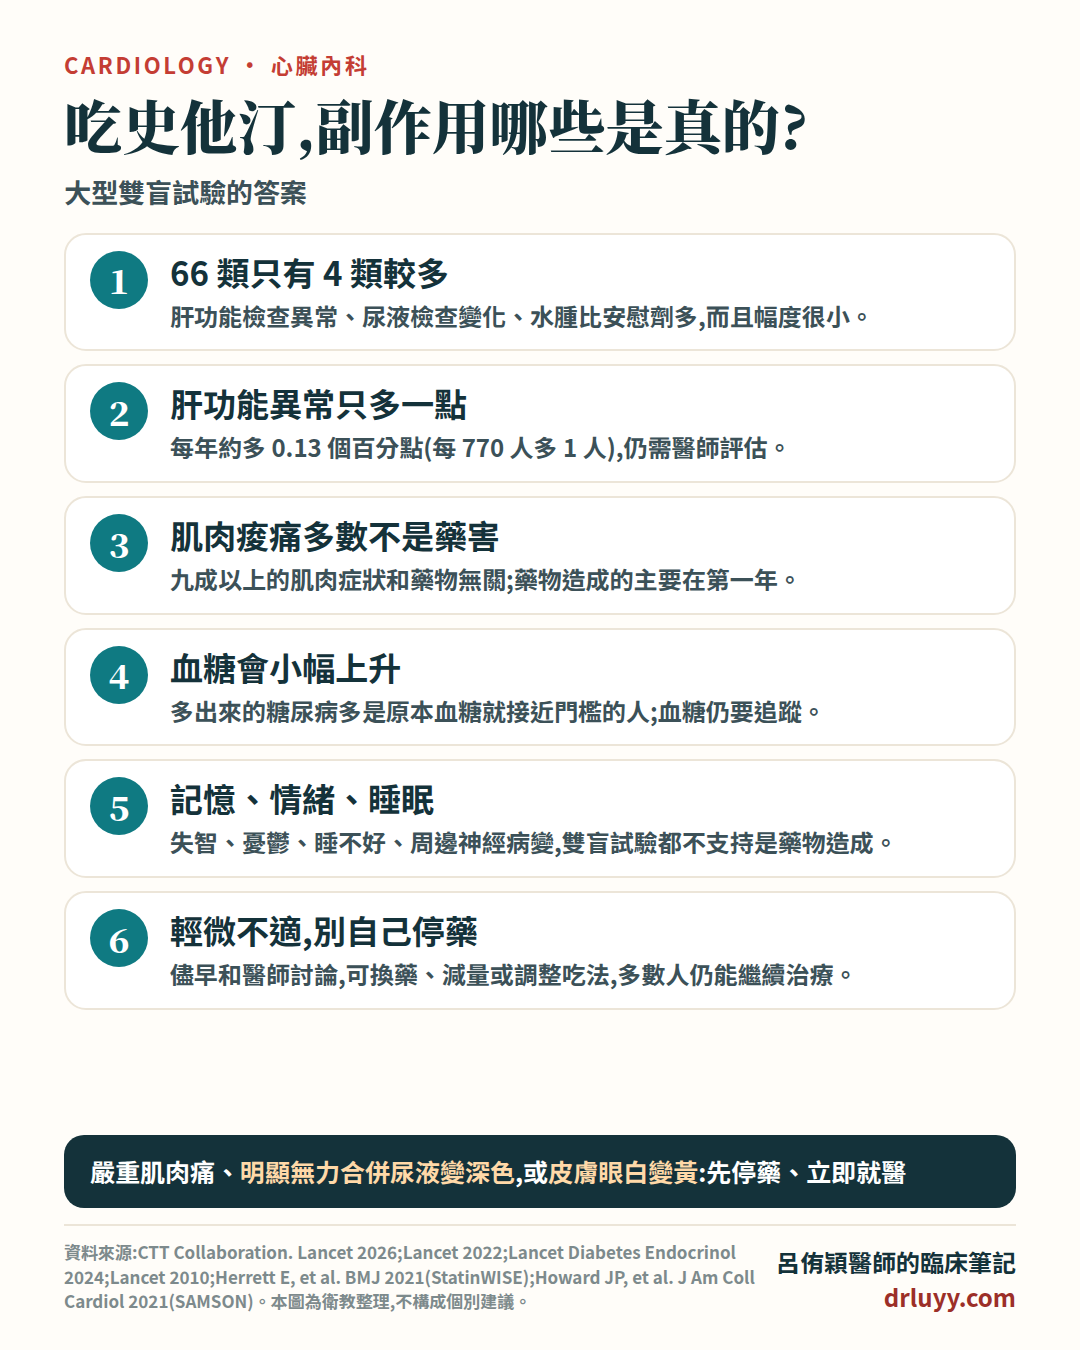
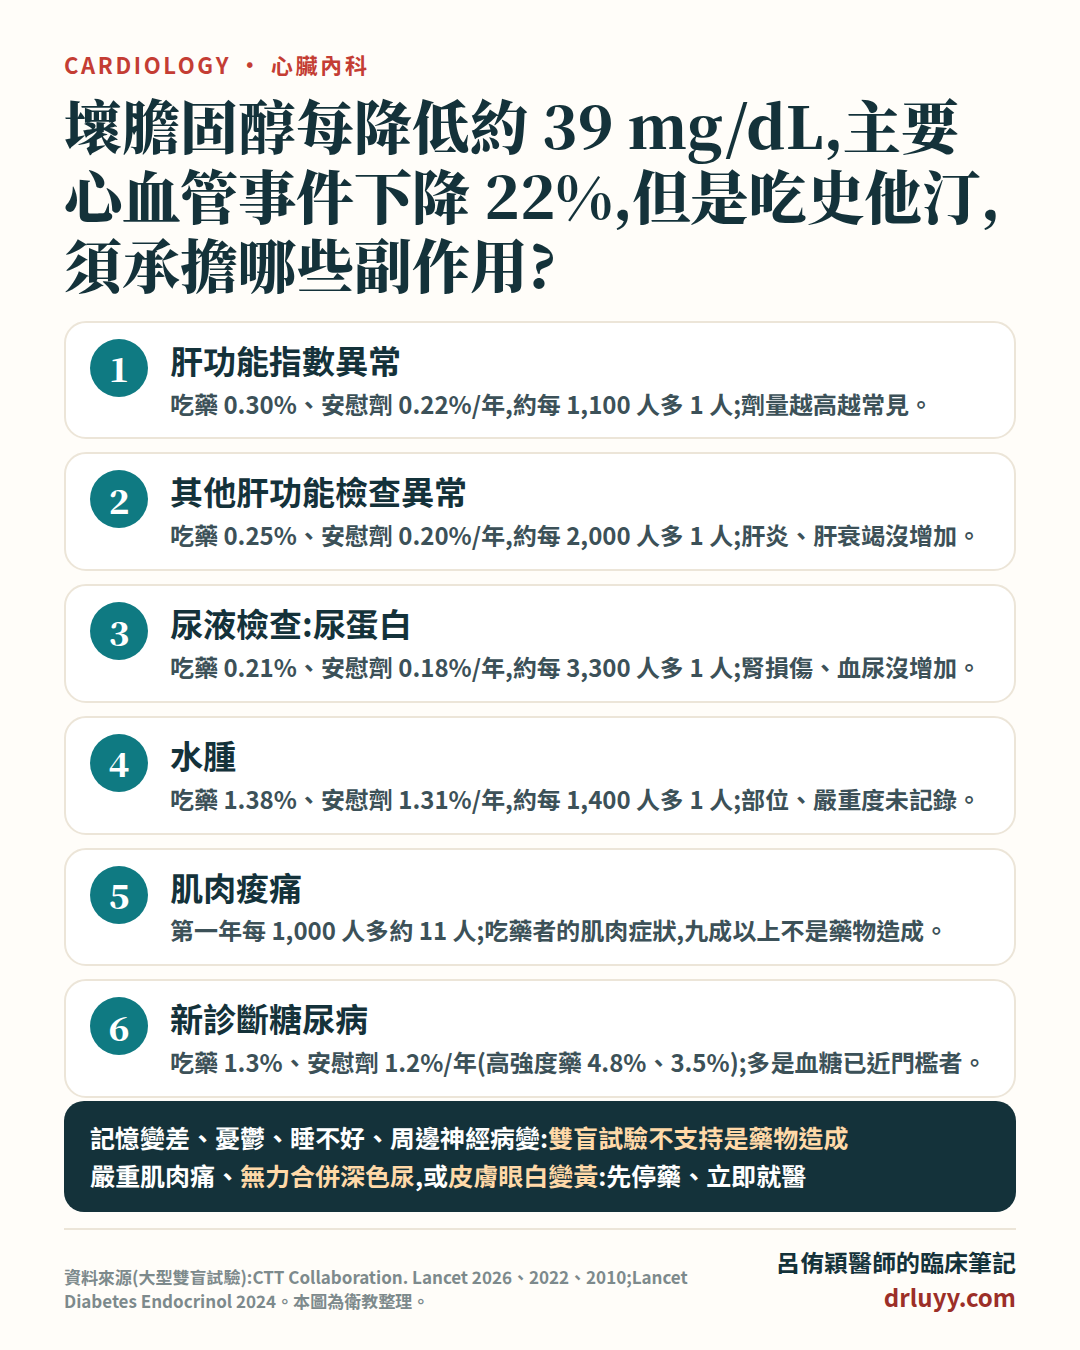
史他汀副作用:尿液、水腫細節與發生率;衛教卡改標題與逐項數字

diff --git a/posts/statin-side-effects.html b/posts/statin-side-effects.html
@@ -109,13 +109,34 @@ gtag('config', 'G-BC1Z8X6BQT');
 ・再用 19 個雙盲、史他汀對安慰劑的大型試驗資料檢查,共 123,940 人,中位追蹤 4.5 年;另外用 4 個比較「較高強度」和「較低強度」史他汀療程的雙盲試驗,看有沒有「強度越高、副作用越多」的關係。肌肉症狀和糖尿病之前已另外分析,不在這 66 類裡。
 ・因為一次檢查很多項目,研究用統計方法校正「多重比較」,避免把巧合當成真的。
 
-【結果:只有 4 類比安慰劑多(前者為史他汀組,後者為安慰劑組)】
-・肝功能指數(轉胺酶)異常:每年 0.30% 對 0.22%。
-・其他肝功能檢查異常:每年 0.25% 對 0.20%。
-・兩類肝功能異常合計,每年只多出約 0.13 個百分點,大約每 770 人吃一年多 1 人;較高強度的療程比較常見,尤其是每天 80 毫克阿托伐他汀。
-・尿液檢查成分變化:每年 0.21% 對 0.18%。
-・水腫:每年 1.38% 對 1.31%。
-・後兩類在「較高強度對較低強度」的比較中沒有明顯增加,是否真由藥物造成、臨床意義多大,還不確定。
+【結果:只有 4 類比安慰劑多】
+以下數字是「每年發生率」,前者為史他汀組,後者為安慰劑組;「每年多出」是兩組相減的差距。
+
+1. 肝功能指數(轉胺酶)異常
+・每年 0.30% 對 0.22%,每年多出約 0.09 個百分點,大約每 1,100 人吃一年多 1 人。
+・較高強度的療程比較常見,尤其是每天 80 毫克阿托伐他汀。
+
+2. 其他肝功能檢查異常
+・包括鹼性磷酸酶、丙麩胺醯轉移酶等其他肝功能抽血項目異常。
+・每年 0.25% 對 0.20%,每年多出約 0.05 個百分點,大約每 2,000 人吃一年多 1 人。
+・兩類肝功能異常合計,每年多出約 0.13 個百分點,大約每 770 人吃一年多 1 人。
+・肝炎、黃疸、肝衰竭、脂肪肝等真正的肝臟疾病,都沒有比安慰劑多。
+
+3. 尿液檢查變化
+・指的是尿液檢查出現異常。每年 0.21% 對 0.18%,每年多出約 0.03 個百分點,大約每 3,300 人吃一年多 1 人。
+・研究再細分後發現,多出來的主要是「尿中出現蛋白質或白蛋白」(每年多出約 0.02 個百分點);尿中白血球、紅血球等其他異常沒有增加。
+・急性腎損傷、血尿、解尿疼痛、排尿問題,都沒有比安慰劑多。
+
+4. 水腫
+・每年 1.38% 對 1.31%,每年多出約 0.07 個百分點,大約每 1,400 人吃一年多 1 人。
+・試驗資料只記錄「水腫」這個不良事件,無法知道是哪個部位、嚴重程度如何。
+・作者認為不太可能和心臟衰竭有關(史他汀本身能減少冠心病造成的心臟衰竭),也不太可能是上述尿蛋白增加造成的。
+
+【要怎麼解讀?】
+・這 4 類每年多出的比例都不到 0.1 個百分點。
+・肝功能異常在「較高強度對較低強度」的比較中也增加,有劑量關係,比較可能真的是藥物造成。
+・尿液變化和水腫,在較高強度療程中沒有更多,是不是真由藥物造成、臨床意義多大,作者也說還不確定。
+・這裡的抽血、驗尿異常,是試驗中「通報為不良事件」的次數,不是每個人都定期抽血驗尿的結果。
 
 【沒有成立的】
 其餘 62 類,包括記憶或認知功能變差、憂鬱、睡眠障礙、周邊神經病變等,在校正多重比較後都沒有比安慰劑明顯增加。作者因此建議修改仿單和官方衛教資訊,讓病人和醫師能做出正確的判斷。當然,這些結果不能完全排除非常罕見、或超過研究追蹤期間才出現的不良反應。
